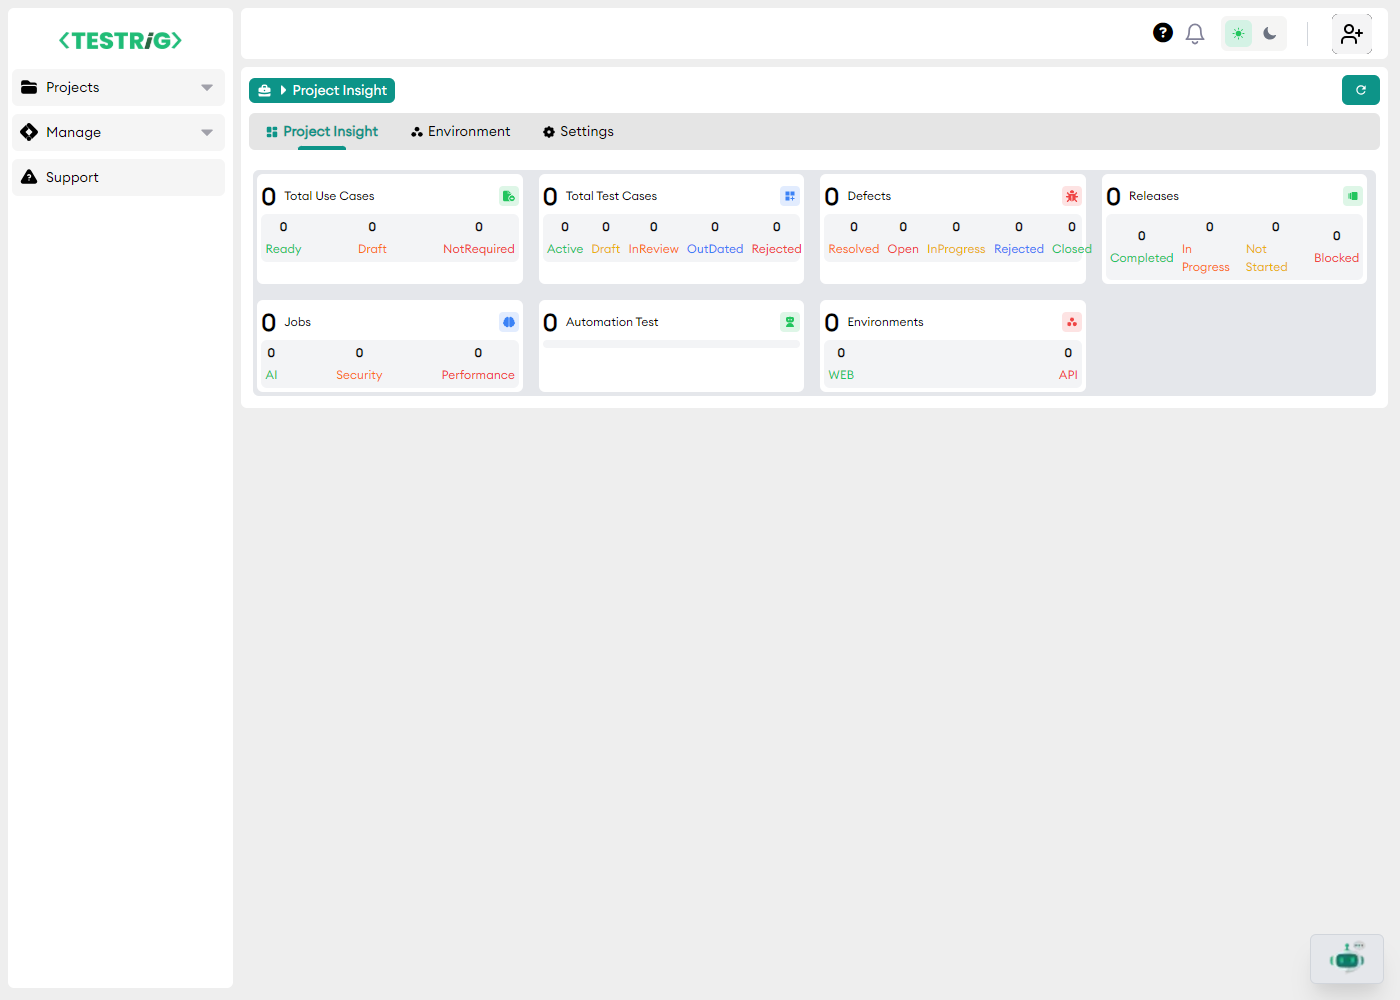
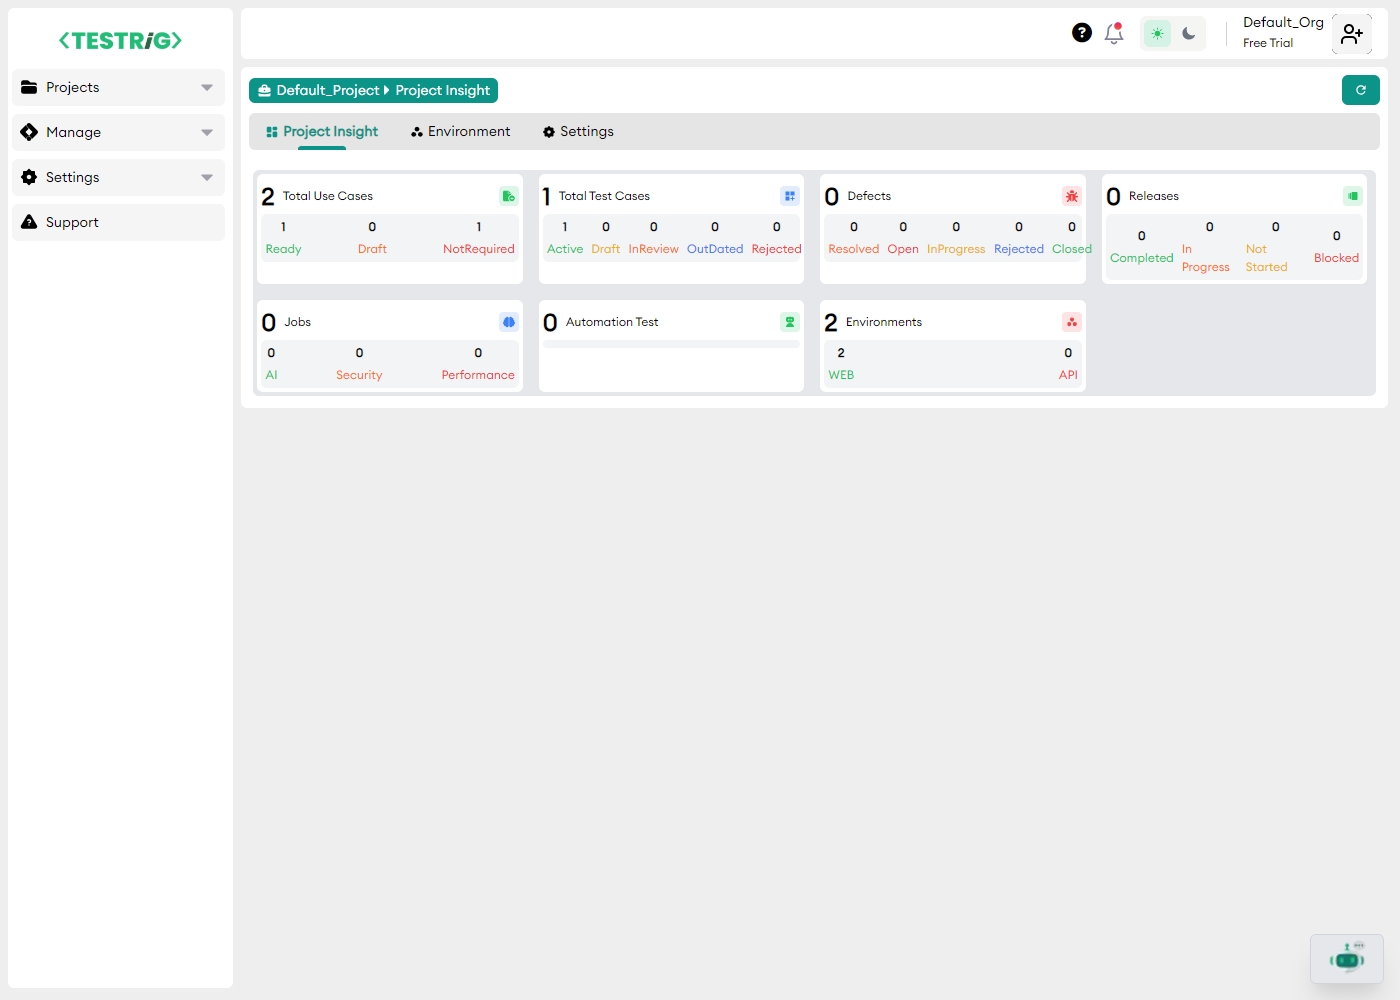
code updated

diff --git a/src/pageObject/default.page.ts b/src/pageObject/default.page.ts
@@ -1,33 +1,38 @@
+import { Page, envFileName, Locator, test } from "../fixture/Fixture";
 
-import { Page , envFileName ,Locator,test} from "../fixture/Fixture";
+export default class DefaultPage {
 
-export default class DefaultPage{
-    constructor(public page:Page){
-    
-           this.page = page;
-    }
+  constructor(public page: Page) {
+    this.page = page;
+  }
 
-    private readonly environment: Locator = this.page.locator(
-        "(//button[contains(@class,'relative flex')])[2]"
-      );
+  private readonly environment: Locator = this.page.locator(
+    "//button[text()='Environment']"
+  );
 
-   
-    public async fillEnvironment(){
-       test.step("Move to Median Earning page", async () => { 
-
-        await this.environment.click();
-        await  this.page.getByPlaceholder('Enter Environment Name').click();
-       await  this.page.getByPlaceholder('Enter Environment Name').fill('PRODUCTIOn');
-       await this.page.locator('div').filter({ hasText: /^Application Type\*NoneWebAPI$/ }).getByRole('combobox').selectOption('WEB');
-       await this.page.getByPlaceholder('example.com', { exact: true }).click();
-       await  this.page.getByPlaceholder('example.com', { exact: true }).fill('example.com');
-       await  this.page.getByRole('button', { name: 'Save' }).click();
-
-
+   async fillEnvironment() {
+   await test.step("Move to Median Earning page", async () => {
+   //   await this.page.waitForTimeout(5000);;
+      await this.environment.click({force:true});
+      await this.page.getByPlaceholder('Enter Environment Name').click();
+      await this.page.waitForTimeout(5000);
+      await this.page.getByPlaceholder('Enter Environment Name').fill('DEV');
+      await this.page.locator('div').filter({ hasText: /^Application Type\*NoneWebAPI$/ }).getByRole('combobox').selectOption('WEB');
+      await this.page.getByPlaceholder('example.com', { exact: true }).click();
+      await this.page.waitForTimeout(5000);
+      await this.page.getByPlaceholder('example.com', { exact: true }).fill('example.com');
+      await this.page.getByRole('button', { name: 'Save' }).click();
+      await this.page.waitForTimeout(10000);
       });
-      
-    }
+  }
 
-    
-
+  async createNewProject(){
+    await this.page.locator('li').filter({ hasText: 'Projects' }).locator('path').nth(1).click();
+    await this.page.locator('li').filter({ hasText: /^New Project$/ }).getByRole('link').click();
+    await this.page.getByPlaceholder('Enter Name').click();
+    await this.page.getByPlaceholder('Enter Name').fill('Catalyst ');
+    await this.page.getByTestId('Project-description-box').click();
+    await this.page.getByTestId('Project-description-box').fill('Testing ');
+    await this.page.getByTestId('empty-submit').click();
+  }
 }

diff --git a/src/pageObject/manual.page.ts b/src/pageObject/manual.page.ts
@@ -1,0 +1,26 @@
+import { Page, envFileName, Locator, test } from "../fixture/Fixture";
+
+export default class ManualPage {
+
+    constructor(public page: Page) {
+        this.page = page;
+      }
+   
+      async createUsecase(){
+        await this.page.locator('li').filter({ hasText: 'Projects' }).locator('svg').nth(1).click();
+        await this.page.locator('li').filter({ hasText: /^catalyst12$/ }).getByRole('link').click();
+        await this.page.getByText('Total Use Cases').click();
+        await this.page.getByRole('button', { name: 'Create Use Case' }).click();
+        await this.page.waitForTimeout(5000);
+        await this.page.getByTestId('UseCasetittle-inputbox').click();
+        await this.page.getByTestId('UseCasetittle-inputbox').fill('Email');
+        await this.page.locator('div').filter({ hasText: /^Use Case Description \*$/ }).getByRole('paragraph').click();
+        await this.page.locator('.tiptap').fill('Email login');
+        await this.page.getByTestId('UseCasePreconditon-TextBox').click();
+        await this.page.getByTestId('UseCasePreconditon-TextBox').fill('login page visibility');
+        await this.page.locator('div').filter({ hasText: /^Email login$/ }).nth(2).click();
+        await this.page.locator('div').filter({ hasText: /^Save$/ }).getByRole('button').click();
+        await this.page.waitForTimeout(5000);
+
+      }
+}

diff --git a/src/tests/defaultpage.spec.ts b/src/tests/defaultpage.spec.ts
@@ -1,26 +1,28 @@
+
 import { expect,test,envFileName } from "../fixture/Fixture";
 require("dotenv").config({ path: envFileName });
-test.describe("FlowAnalysisPageTests", () => {
+test.describe("DefaultPageTests", () => {
 
     
 
-    test("TC001", async ({
-        page,signUp
+    // test("TC001", async ({
+    //     signUp,defaultPage,page
+        
+    //   }) => {
+    //     await signUp.register(process.env.fname!,process.env.lname!,process.env.email!,process.env.password!);
+    //     await defaultPage.fillEnvironment();
+        
+       
+    //   });
+
+      test("TC002", async ({
+        page,signUp,defaultPage
         
       }) => {
         await signUp.register(process.env.fname!,process.env.lname!,process.env.email!,process.env.password!);
-        await page.waitForTimeout(5000);
-        console.log(process.env.password!);
-        await page.screenshot({ path: 'Default_page.png', fullPage: true }); 
+       // await  page.waitForTimeout(5000);
+        await defaultPage.createNewProject();
        
-      });
-
-      test("TC002", async ({
-        page,signUp
-        
-      }) => {
-       
-       
-      });
+         });
 
 });

diff --git a/src/fixture/Fixture.ts b/src/fixture/Fixture.ts
@@ -1,9 +1,11 @@
 import { test as base } from "@playwright/test";
 import SignUp from "../pageObject/signup.page";
 import DefaultPage from "../pageObject/default.page";
+import ManualPage from "../pageObject/manual.page";
 type pages  =  {
    signUp: SignUp;
    defaultPage : DefaultPage;
+   manualPage : ManualPage
 };
 const pageObjects = base.extend<pages>({
     signUp: async ({ page }, use) => {
@@ -11,6 +13,9 @@ const pageObjects = base.extend<pages>({
     }, 
     defaultPage: async ({ page }, use) => {
       await use(new DefaultPage(page));
+    }, 
+    manualPage: async ({ page }, use) => {
+      await use(new ManualPage(page));
     }, 
 
 });

diff --git a/src/pageObject/signup.page.ts b/src/pageObject/signup.page.ts
@@ -1,5 +1,5 @@
 
-import { Page , envFileName,Locator, expect} from "../fixture/Fixture";
+import { Page , envFileName,Locator, test} from "../fixture/Fixture";
 require("dotenv").config({ path: envFileName });
 
  export default class SignUp{
@@ -27,9 +27,10 @@ require("dotenv").config({ path: envFileName });
     await this.page.getByLabel('Password', { exact: true }).click();
     await this.page.getByLabel('Password', { exact: true }).fill(`${password}`);
     await this.page.getByRole('button', { name: 'Continue' }).click();
-   
+    await  this.page.waitForTimeout(10000);
     
-  }
+   
+}
 
 
 }

diff --git a/src/tests/manualPage.spec.ts b/src/tests/manualPage.spec.ts
@@ -1,0 +1,18 @@
+import { expect,test,envFileName } from "../fixture/Fixture";
+require("dotenv").config({ path: envFileName });
+
+test.describe("ManualPageTests", () => {
+
+    test("TC003", async ({
+        page,signUp,manualPage
+        
+      }) => {
+        await signUp.register(process.env.fname!,process.env.lname!,process.env.email!,process.env.password!);
+
+        await manualPage.createUsecase();
+       
+         });
+
+
+
+});
